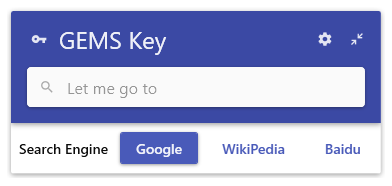
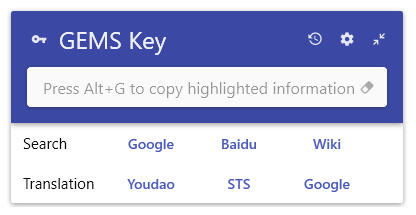
Add default layout. Update screenshot, update README.

diff --git a/GEMS Key/Classes/CategoryList.cs b/GEMS Key/Classes/CategoryList.cs
@@ -22,23 +22,28 @@ namespace GEMS_Key
         {
             var category1 = new Category
             {
-                CategoryName = "Part",
+                CategoryName = "Search",
                 ButtonList = new List<ButtonInfo>
                 {
-                    new ButtonInfo {ButtonName = "Released"},
-                    new ButtonInfo {ButtonName = "Created"}
+                    new ButtonInfo {ButtonName = "Google", Prefix = "http://www.google.com/search?q="},
+                    new ButtonInfo {ButtonName = "Baidu", Prefix = "https://www.baidu.com/s?wd="},
+                    new ButtonInfo {ButtonName = "Wiki", Prefix = "https://en.wikipedia.org/wiki/"}
                 }
             };
 
             var category2 = new Category
             {
-                CategoryName = "BOM",
+                CategoryName = "Translation",
                 ButtonList = new List<ButtonInfo>
                 {
-                    new ButtonInfo {ButtonName = "Released"},
-                    new ButtonInfo {ButtonName = "Created"}
+                    new ButtonInfo {ButtonName = "Youdao", Prefix = "http://www.youdao.com/w/eng/"},
+                    new ButtonInfo {ButtonName = "STS", Prefix = "https://translation.steampowered.com/translate.php?search_input=", Suffix = "&lang=schinese"},
+                    new ButtonInfo {ButtonName = "Google", Prefix = "https://translate.google.com/#auto/en/"}
+
                 }
+
             };
+
 
             List<Category> categories = new List<Category>
             {
@@ -68,10 +73,13 @@ namespace GEMS_Key
     {
         [XmlElement]
         public string ButtonName { get; set; } = "Search";
+
         [XmlElement]
-        public string Hotkey { get; set; }
+        public string Hotkey { get; set; } = null;
+
         [XmlElement]
         public string Prefix { get; set; } = null;
+
         [XmlElement]
         public string Suffix { get; set; } = null;
     }

diff --git a/GEMS Key/Classes/LayoutHelper.cs b/GEMS Key/Classes/LayoutHelper.cs
@@ -1,5 +1,6 @@
 using System;
 using System.Collections.Generic;
+using System.IO;
 using System.Linq;
 using System.Text;
 using System.Threading.Tasks;
@@ -10,6 +11,10 @@ namespace GEMS_Key
     {
         public static List<Category> SetLayout()
         {
+            if (!File.Exists("config.xml"))
+            {
+                Category.SerializeInventory();
+            }
             List<Category> categoryList = Category.DeserializeInventory();
             return categoryList;
         }

diff --git a/README.md b/README.md
@@ -4,7 +4,7 @@ Integrate your frequent used websites, and query with keywords.<br>
 |Author|Bin Dong
 |---|---
 |Email|popmessiah@hotmail.com
-|知乎|[兔基兔基](https://www.zhihu.com/people/rabbitism/activities)
+|知乎|[兔基](https://www.zhihu.com/people/rabbitism/activities)
 |Linkedin|[Bin Dong](https://www.linkedin.com/in/bin-dong-48272336/)
 
 ## How to Use GEMS Key
